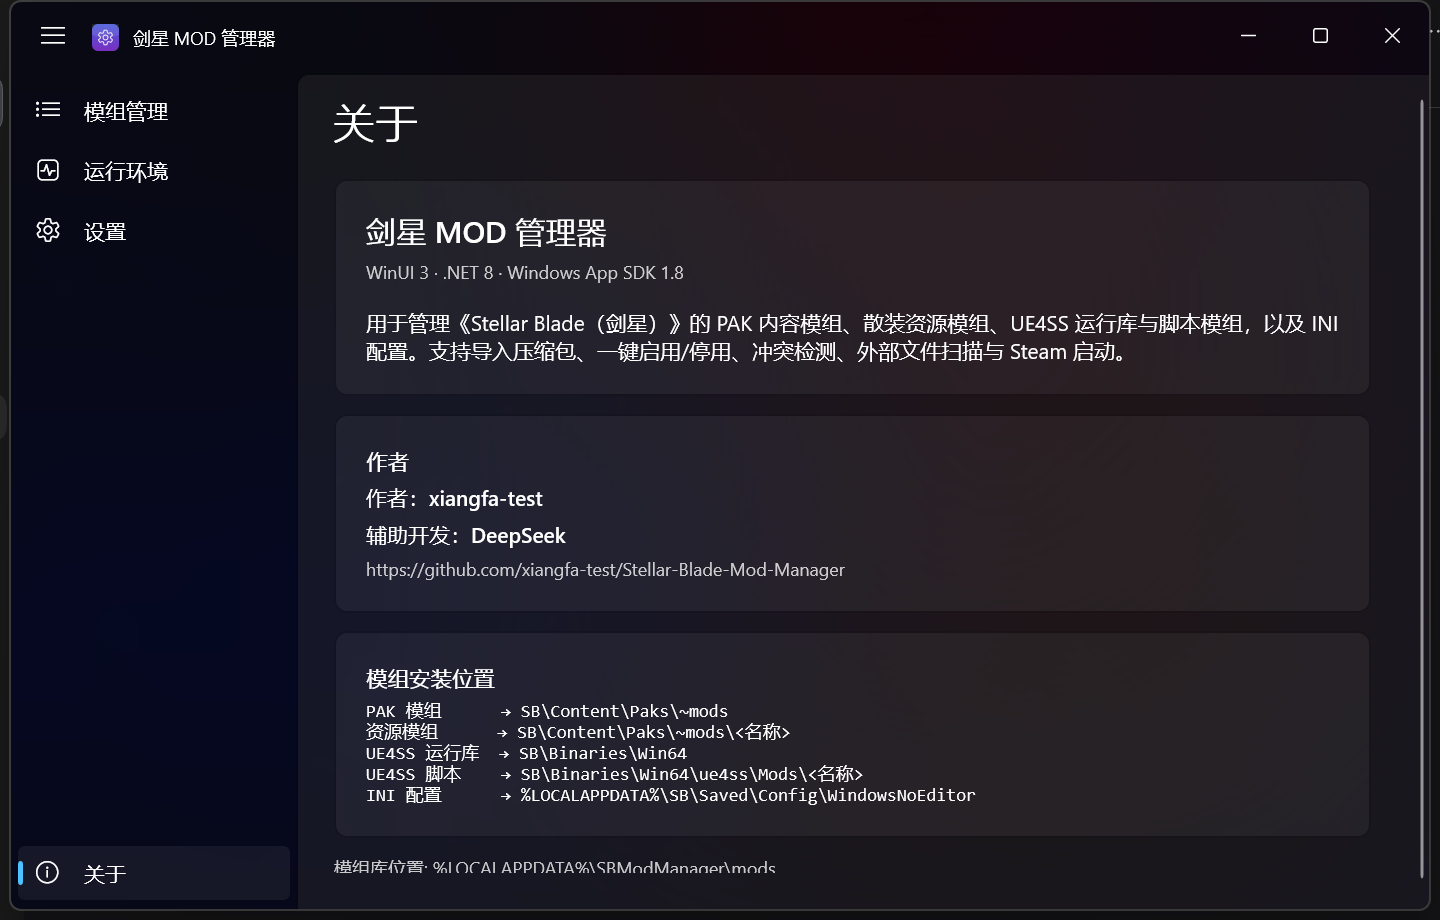
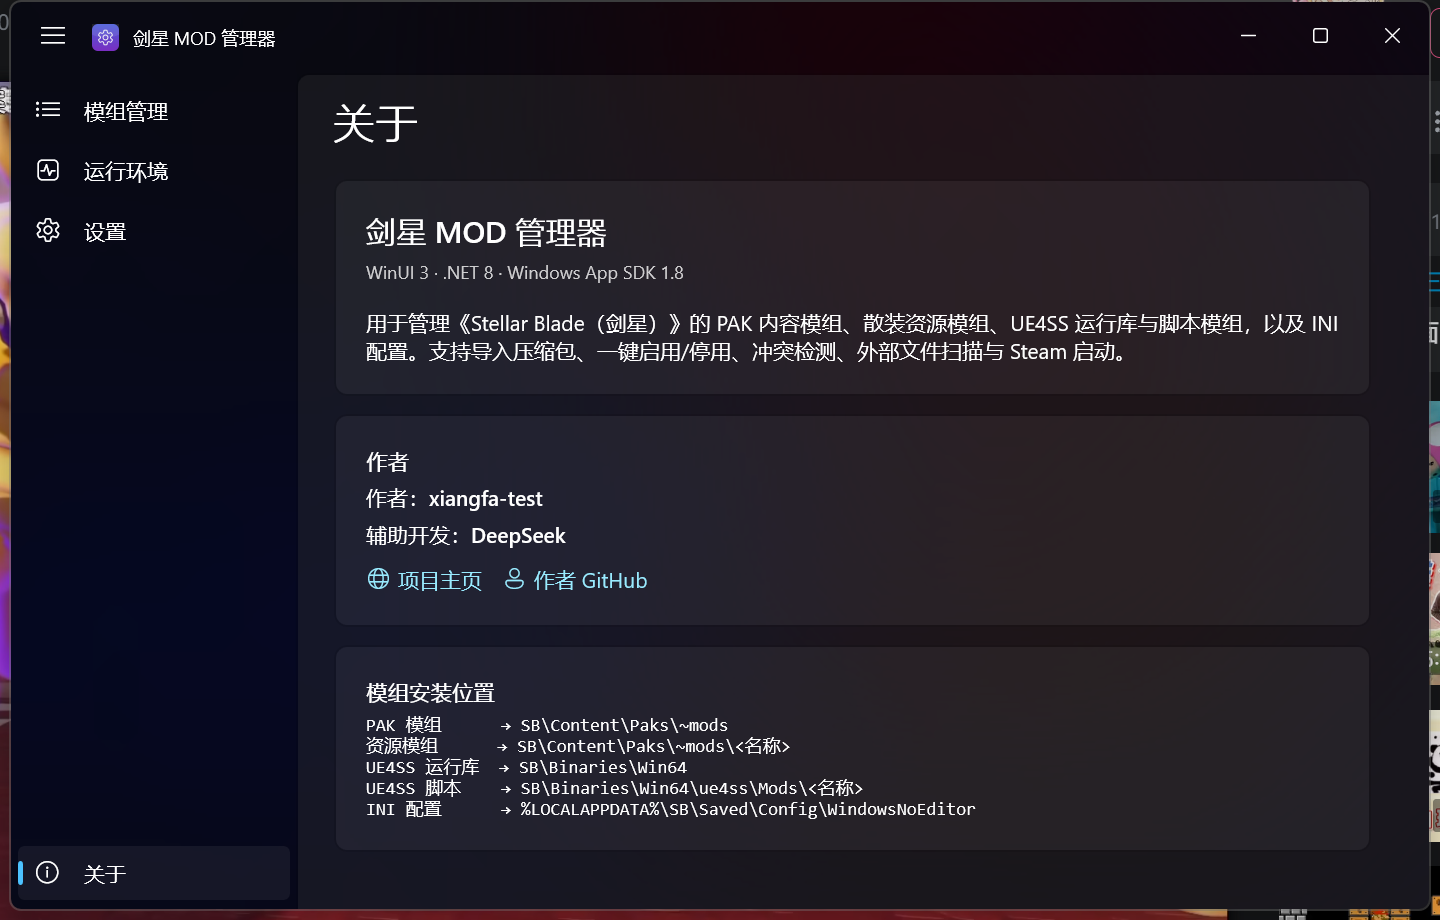
feat(about): 作者区项目/主页改为可点击按钮，文档改用超链接

diff --git a/src/SBModManager/Views/AboutPage.xaml b/src/SBModManager/Views/AboutPage.xaml
@@ -40,11 +40,20 @@
                     <TextBlock TextWrapping="Wrap">
                         <Run Text="辅助开发：" /><Run Text="DeepSeek" FontWeight="SemiBold" />
                     </TextBlock>
-                    <TextBlock
-                        Foreground="{ThemeResource TextFillColorSecondaryBrush}"
-                        Style="{StaticResource CaptionTextBlockStyle}"
-                        Text="https://github.com/xiangfa-test/Stellar-Blade-Mod-Manager"
-                        TextWrapping="Wrap" />
+                    <StackPanel Margin="0,4,0,0" Orientation="Horizontal" Spacing="12">
+                        <HyperlinkButton NavigateUri="https://github.com/xiangfa-test/Stellar-Blade-Mod-Manager" Padding="0">
+                            <StackPanel Orientation="Horizontal" Spacing="6">
+                                <FontIcon FontSize="14" Glyph="&#xE774;" />
+                                <TextBlock Text="项目主页" />
+                            </StackPanel>
+                        </HyperlinkButton>
+                        <HyperlinkButton NavigateUri="https://github.com/xiangfa-test" Padding="0">
+                            <StackPanel Orientation="Horizontal" Spacing="6">
+                                <FontIcon FontSize="14" Glyph="&#xE77B;" />
+                                <TextBlock Text="作者 GitHub" />
+                            </StackPanel>
+                        </HyperlinkButton>
+                    </StackPanel>
                 </StackPanel>
             </Border>
 

diff --git a/AUTHORS.md b/AUTHORS.md
@@ -1,8 +1,7 @@
 # 作者 / Authors
 
-1. **xiangfa-test**（作者 / Author）
-   - GitHub: https://github.com/xiangfa-test
-   - 项目: https://github.com/xiangfa-test/Stellar-Blade-Mod-Manager
+1. **[xiangfa-test](https://github.com/xiangfa-test)**（作者 / Author）
+   - 项目: [Stellar-Blade-Mod-Manager](https://github.com/xiangfa-test/Stellar-Blade-Mod-Manager)
 
-2. **DeepSeek**（辅助开发 / Development assistant）
+2. **[DeepSeek](https://github.com/deepseek-ai)**（辅助开发 / Development assistant）
    - 参与界面实现、功能联调与构建脚本的协助开发

diff --git a/README.md b/README.md
@@ -136,10 +136,10 @@ stellar-mod-manager/
 
 ## 作者
 
-1. **xiangfa-test**（作者 / Author）— https://github.com/xiangfa-test
-2. **DeepSeek**（辅助开发 / Development assistant）
+1. **[xiangfa-test](https://github.com/xiangfa-test)**（作者 / Author）
+2. **[DeepSeek](https://github.com/deepseek-ai)**（辅助开发 / Development assistant）
 
-项目主页: https://github.com/xiangfa-test/Stellar-Blade-Mod-Manager
+项目主页: [Stellar-Blade-Mod-Manager](https://github.com/xiangfa-test/Stellar-Blade-Mod-Manager)
 
 ## 已知限制
 
